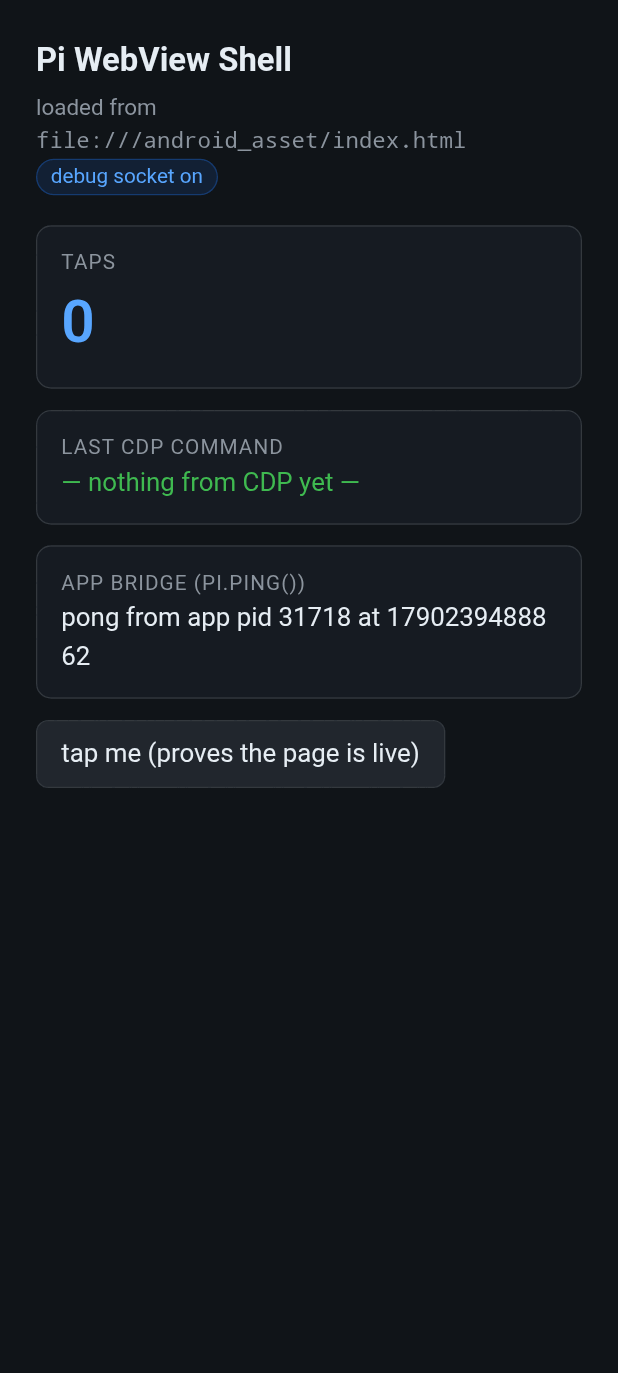
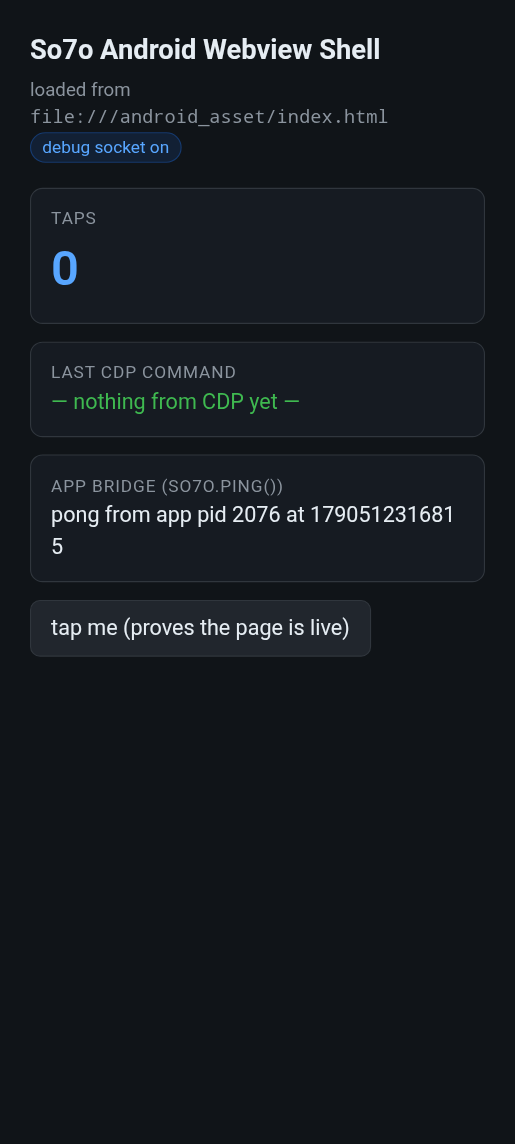
docs: re-capture the screenshots on app.so7o.webview
The demo-page captures showed the old branding. Both are re-made over
the relay against the installed app: shell-window.png (the bundled page
at the window's native 840x1326) and phone-viewport-pixel7.png (412x915
CSS at scale 1.25 -> 515x1144, a scale chosen to fit the 837x1325 window
surface rather than the display, which the clamp measures).

Drop shell-on-display.png: it needed a virtual display, which needs adb,
so it cannot be reproduced right now. Drop hn-puppeteer-native.png,
which was never referenced.

Verified banner now records the actual re-run: new package in
/json/version, so7o.ping/info, click 0 -> 1, the Hacker News assertion,
and an 840x1326 capture, all over the relay with no adb. The transcripts
are still the old run with swapped names and say so.

diff --git a/README.md b/README.md
@@ -19,11 +19,10 @@ Verified end-to-end on SM-F936B (One UI, Android 16 / API 36), 2026-09.
 > pre-rebrand build, when the app was `Pi WebView Shell` / `com.pi.webview`. The brand strings
 > in the transcripts have been renamed to the current names for readability, so a line such as
 > `"Android-Package": "app.so7o.webview"` is an *old recording with the name swapped*, not a
-> capture from the current APK. The screenshots still show the old branding outright. Both are
-> re-recorded against `app.so7o.webview` once it is installed — see the banner on
-> [Verified](#verified). Two changes also postdate the recordings: the verification check now
-> targets Hacker News rather than `pi.dev`, and the Screenshots section carries a fresh Hacker
-> News capture.
+> capture from the current APK. The screenshots have since been re-captured on
+> `app.so7o.webview` — see the banner on [Verified](#verified) for what was re-run — but the
+> transcripts have not, and still show the old run with the names swapped in. Two changes also
+> postdate them: the verification check now targets Hacker News rather than `pi.dev`.
 
 ## Quick start
 
@@ -160,15 +159,18 @@ serving. Every step above is adb-free; that one is not.
 ## Screenshots
 
 All of these are produced **by the tool itself** — `node cdp.mjs --shot`, i.e. the same
-`Page.captureScreenshot` path documented below, not a phone screenshot. They predate the
-rename: the app name and page title visible in them read `Pi WebView Shell`.
+`Page.captureScreenshot` path documented below, not a phone screenshot. The demo-page captures
+are current, taken on `app.so7o.webview`; the external-page ones are from earlier runs against
+other display setups.
 
-**The shell on a virtual display** (1247×1398 px):
+**The shell itself**, at its window's native size (840×1326 device px), showing the bundled demo
+page with the Java bridge answering:
 
-![So7o Android Webview Shell running on a virtual display, showing the bundled demo page](docs/img/shell-on-display.png)
+![So7o Android Webview Shell showing the bundled demo page](docs/img/shell-window.png)
 
-**The same page under `--device pixel-7`** — the page lays out at 412×915 CSS px with touch
-and a mobile UA (scale factor clamped to 1.5 here; see *Phone-sized viewports*):
+**The same page under `--device pixel-7`** — the page lays out at 412×915 CSS px with touch and a
+mobile UA. The scale factor is 1.25 here, picked so the emulated pixels fit the window surface
+(see *Phone-sized viewports*); 515×1144:
 
 ![The demo page laid out at a Pixel 7 viewport](docs/img/phone-viewport-pixel7.png)
 
@@ -885,10 +887,13 @@ can be off entirely. The relay is bound per *process*, so an Activity recreation
 
 ## Verified
 
-> **Status after the rename:** every entry below was recorded against the pre-rebrand build
-> (`com.pi.webview`). The package id is now `app.so7o.webview`, which is a *different app* to
-> Android, so these need re-running against the new APK before they can be called verified
-> again — the rename is confirmed at APK level only (package, label, assets, signature).
+> **Status after the rename.** The core path has been re-run against `app.so7o.webview` and
+> holds: `/json/version` reports the new package, `Runtime.evaluate` round-trips, `so7o.ping()`
+> answers `pong from app pid 2076`, `so7o.info()` returns that pid and `127.0.0.1:9334`, a click
+> moves the page's own counter (`0 → 1`), the Hacker News assertion passes
+> (`{"title":"Hacker News","stories":30}`), and `--shot` writes an 840×1326 PNG — all over the
+> in-app relay with **no adb**. The multi-display rows still describe the pre-rename build; they
+> need a second display, hence adb, to re-run.
 
 - Socket name is exactly `webview_devtools_remote_<pid>`, matching the app's own
   `Log.i` line and the name the Java side reports back through CDP.
